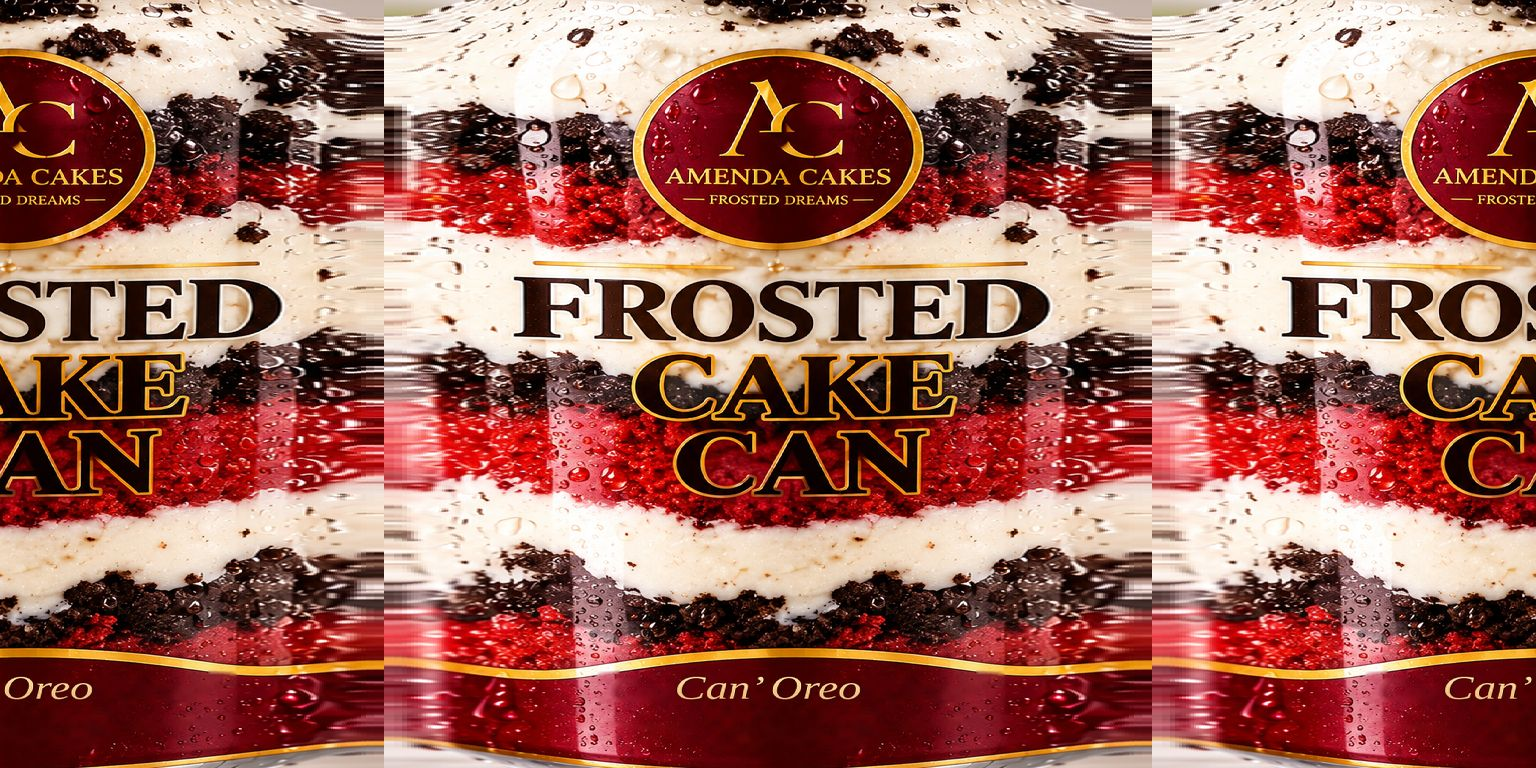
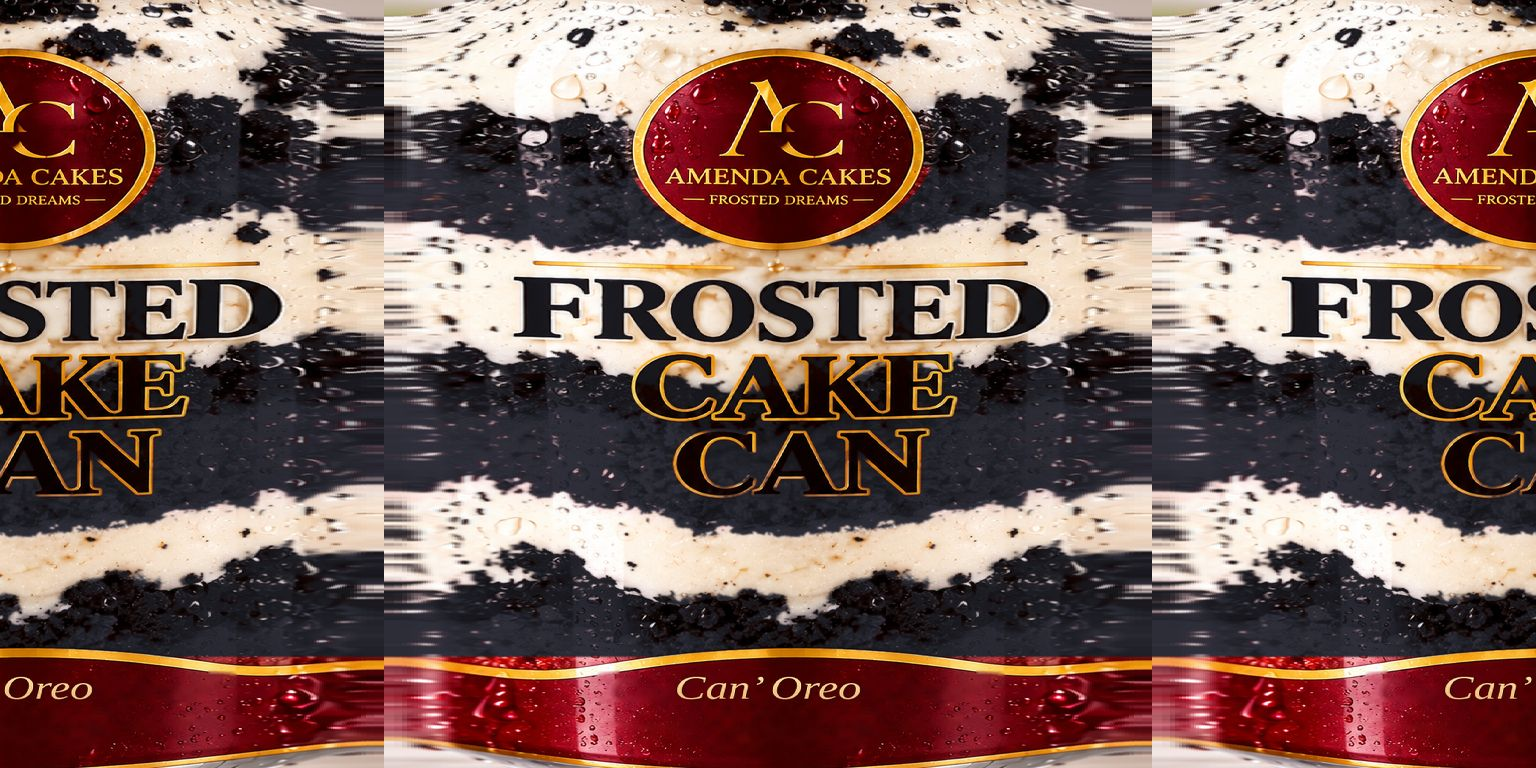
Can’ Oreo : couches rouges passées en noir Oreo (canette, fond de section)
Claude-Session: https://claude.ai/code/session_01CxfxJV6vi4qqERGSLR9cau

diff --git a/index.html b/index.html
@@ -334,7 +334,7 @@ window.addEventListener('unhandledrejection', function(){ setTimeout(window.hide
       <div class="price a"><span class="count" data-v="4000">4 000</span><small>FCFA</small></div>
     </div>
   </section>
-  <section class="sec dark s-velv" data-bg="#9e1b2b" data-flavor="oreo">
+  <section class="sec dark s-velv" data-bg="#231c1b" data-flavor="oreo">
     <div class="txt right">
       <div data-en="Flavour 03 / 04" class="kicker a">Saveur 03 / 04</div>
       <h2 class="split">Can’ <em>Oreo</em></h2>
@@ -443,7 +443,7 @@ const T = EN ? { empty:'No cans yet.', hello:'Hello Amenda Cakes, I would like t
 const MENU = [
   { id:'speculos', name: EN ? 'Can’ Speculoos' : 'Can’ Spéculos', desc: EN ? 'Vanilla sponge, Speculoos spread and biscuit' : 'Génoise vanille, pâte et biscuit Spéculos', price:4000, c:'#c47e3e' },
   { id:'pistache', name:'Can’ Pistachio', desc: EN ? 'Chocolate sponge, pistachio spread and ground pistachio' : 'Génoise chocolat, pâte et poudre de pistache', price:4000, c:'#a3c63f' },
-  { id:'oreo', name:'Can’ Oreo', desc: EN ? 'Sponge cake, Oreo cream and biscuit' : 'Génoise, crème et biscuit Oreo', price:3000, c:'#9e1b2b' },
+  { id:'oreo', name:'Can’ Oreo', desc: EN ? 'Sponge cake, Oreo cream and biscuit' : 'Génoise, crème et biscuit Oreo', price:3000, c:'#231c1b' },
   { id:'bueno', name:'Can’ Bueno', desc: EN ? 'Chocolate sponge, Bueno spread and Kinder Bueno' : 'Génoise chocolat, pâte Bueno et Kinder Bueno', price:3000, c:'#a9652d' },
   { id:'pack', name: EN ? 'Discovery pack' : 'Pack découverte', desc: EN ? 'All 4 flavours' : 'Les 4 saveurs', price:13500, c:'#d9a54a', tip: EN ? 'Save 500 FCFA' : '500 FCFA d’économie' },
 ];
@@ -555,7 +555,7 @@ const FLAVORS = {
     bands:[['crumb',.11],['cake',.17,'#5b3322'],['cream',.12,'#fbf5e9'],['paste',.1,'#a9c94a'],['crumb',.09],['cake',.15,'#5b3322'],['cream',.12,'#fbf5e9'],['paste',.05,'#a9c94a'],['crumb',.09]],
     labels:['Poudre de pistache','Crème chantilly vanille','Pâte pistache','Génoise chocolat'] },
   oreo:{ crumbs:['#16100d','#2a1e19','#3b2c25','#0e0907','#4a3a32'],
-    bands:[['crumb',.13],['cake',.17,'#a3202e'],['cream',.16,'#f5f1ea',true],['crumb',.1],['cake',.15,'#a3202e'],['cream',.14,'#f5f1ea',true],['crumb',.13]],
+    bands:[['crumb',.13],['cake',.17,'#211a18'],['cream',.16,'#f5f1ea',true],['crumb',.1],['cake',.15,'#211a18'],['cream',.14,'#f5f1ea',true],['crumb',.13]],
     labels:['Crème chantilly Oreo','Biscuit Oreo','Génoise'] },
   bueno:{ crumbs:['#7c3f17','#a9652d','#5a2a10','#c88a4a','#ead6ae'],
     bands:[['crumb',.11],['cake',.17,'#5b3322'],['cream',.13,'#d3a97f'],['paste',.08,'#c88c48'],['chunk',.11],['cake',.14,'#5b3322'],['cream',.12,'#d3a97f'],['crumb',.12]],
@@ -745,7 +745,7 @@ const crumbGeo = new THREE.IcosahedronGeometry(1, 0);
 
 /* photos des canettes, déroulées autour du cylindre par tools/photos_canettes.py (de face = la photo exacte) */
 const PHOTOS = {};
-const PHOTO_V = 3; // à augmenter quand une photo de canette change (force le rechargement chez les visiteurs)
+const PHOTO_V = 4; // à augmenter quand une photo de canette change (force le rechargement chez les visiteurs)
 async function loadPhotos(){
   const loader = new THREE.TextureLoader();
   await Promise.all(ORDER.map(k => Promise.race([
